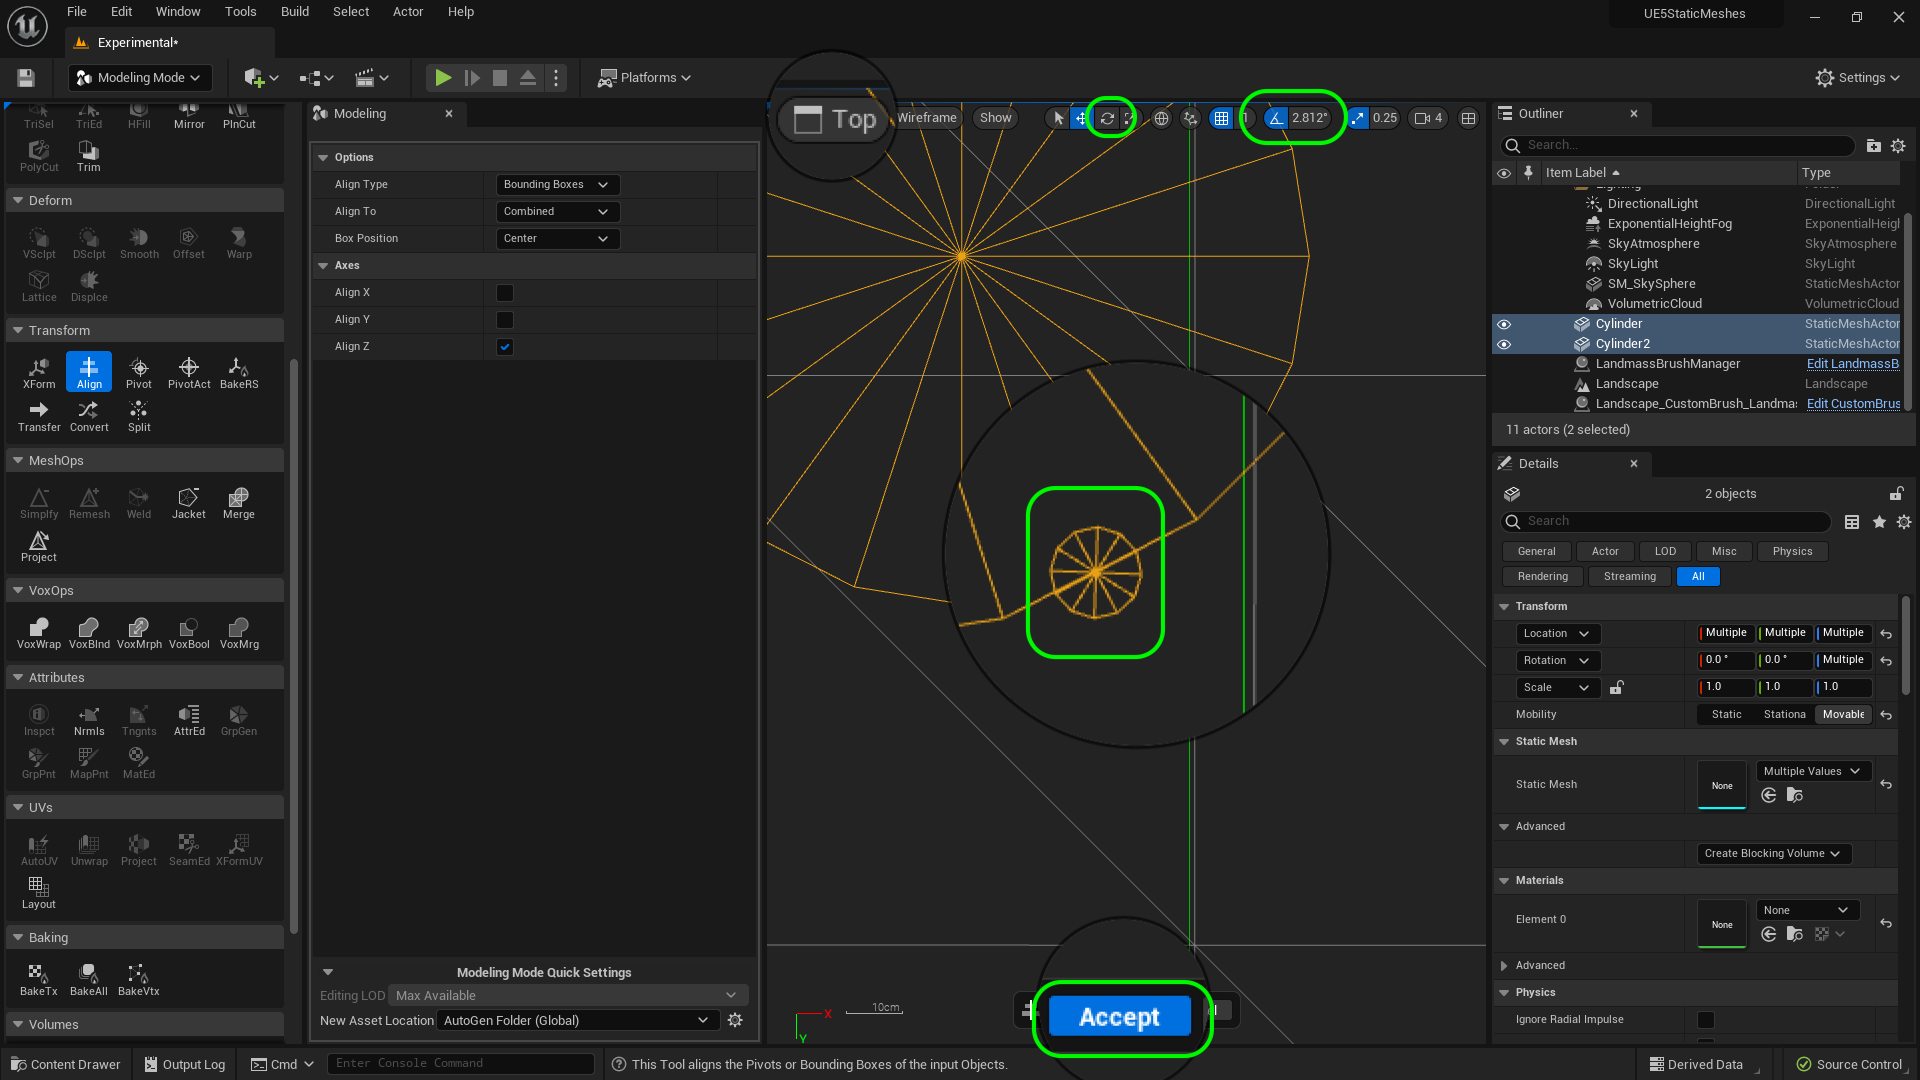
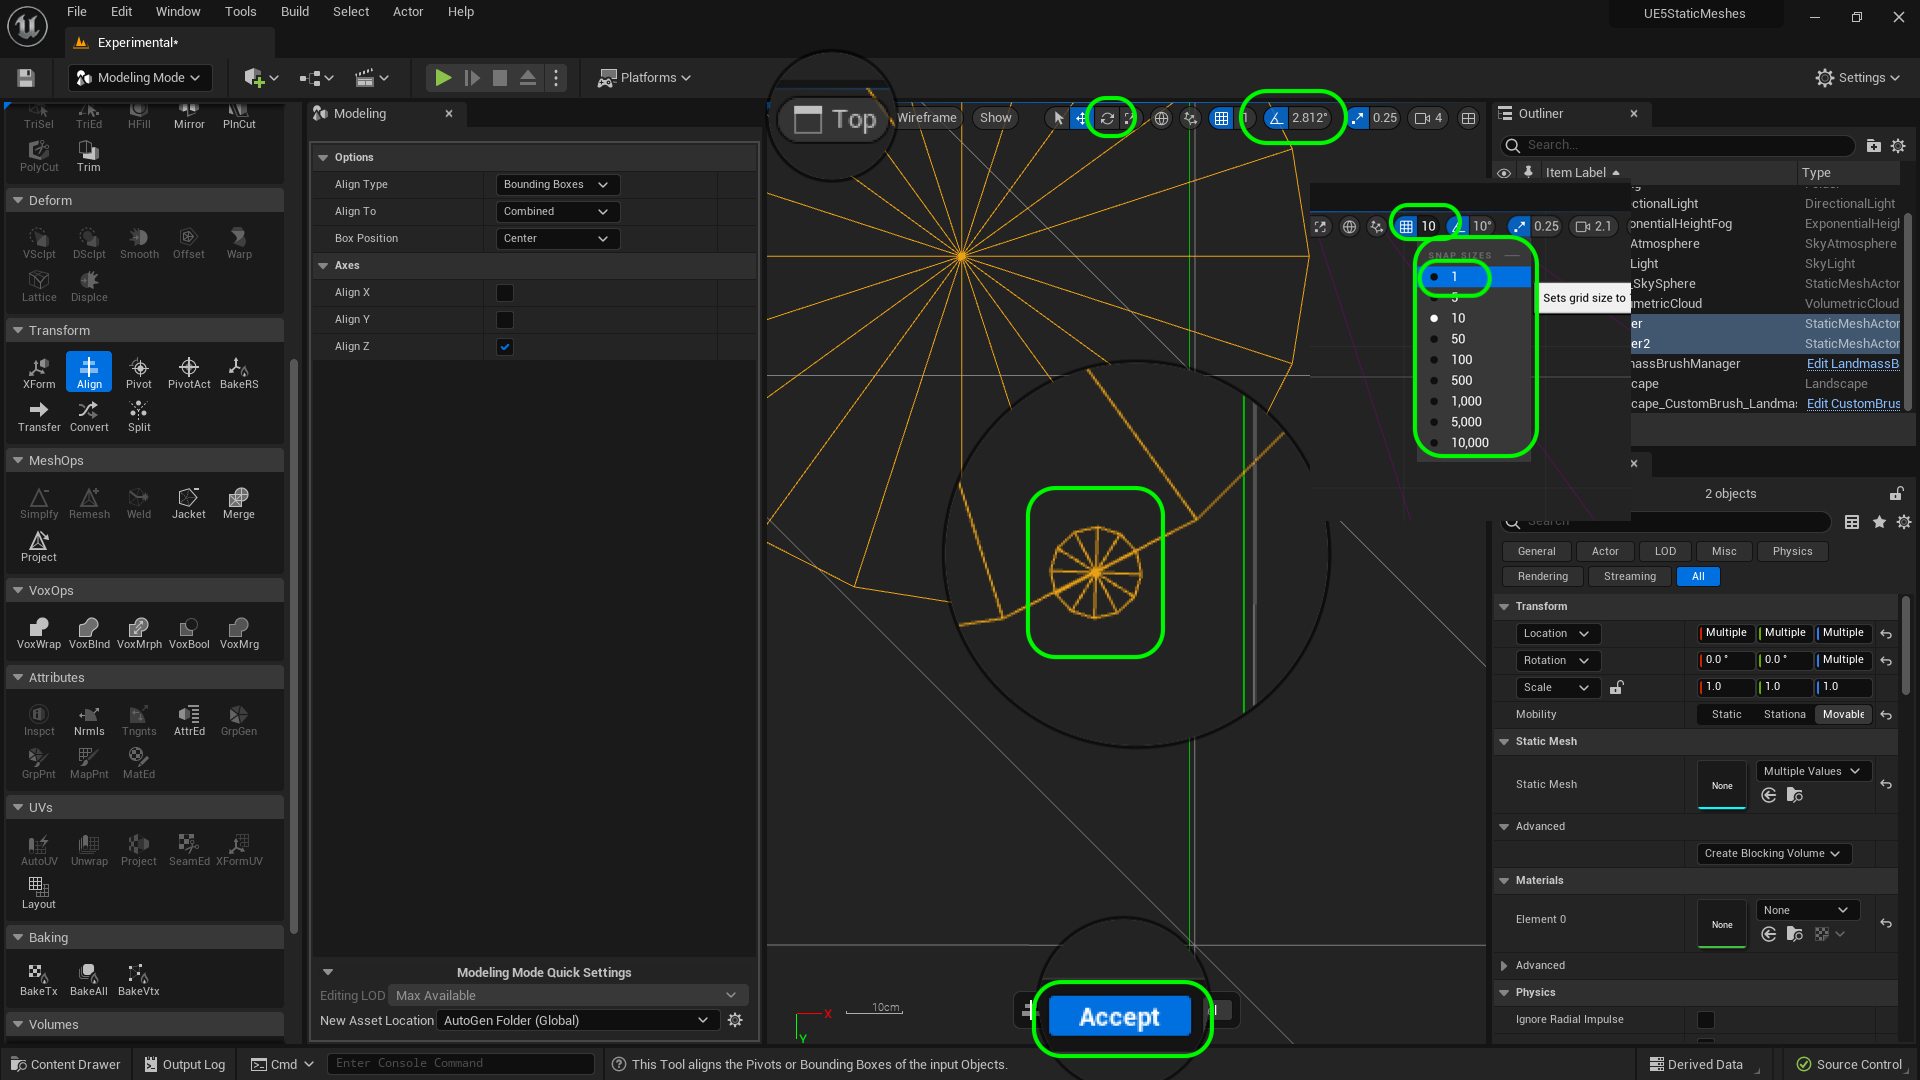
Update to Unreal 5.2

Changed region(s): [[0.6875, 0.1833, 0.875, 0.4583]]

diff --git a/basic-column/README.md b/basic-column/README.md
@@ -153,7 +153,9 @@ Lets align the flute vertically with the pillar. Select both pillars and **Trans
 
 ##### `Step 17.`\|`ITSM`| :large_blue_diamond: :small_orange_diamond: :small_blue_diamond: :small_blue_diamond:
 
-Now switch the view to **Above** and move the flute so that the center is penetrated by the edge of the cylinder. Also rotate it so it is perpendicular to the edge.  You might have to change the angle amount to get it just right. When it is perfect hit the <kbd>Accept</kbd> button.
+Now switch the view to **Above** and move the flute so that the center is as close to being penetrated by the edge of the column. You need to adjust the grid snapping to `1` or turn off grid snapping entirely. 
+
+We also need to rotate the small flute so its edge is perpendicular to the larger column edge.  You might have to change the angle amount to `2.812°` to get it close to  right. When it is perfect hit the <kbd>Accept</kbd> button.
 
 ![center flute on edge](images/positionAbove.png)
 
